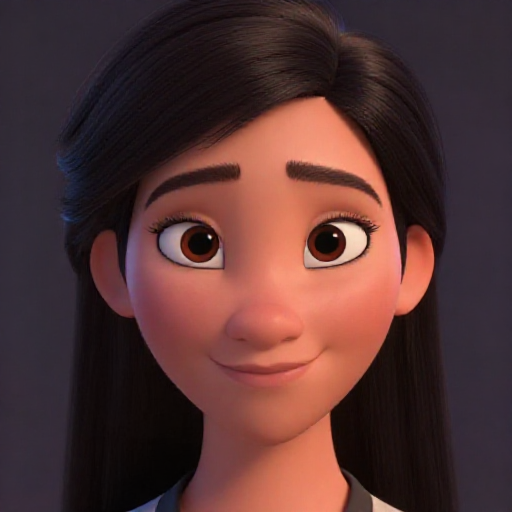
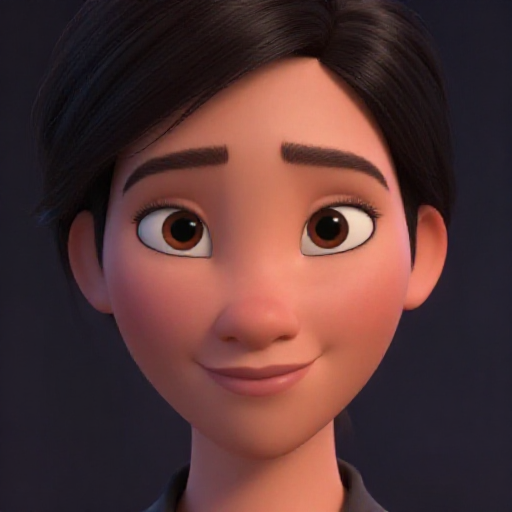
Fix VQA batching (sequential now), add hair_length, strengthen prompt for feature adherence, add prompt logging

diff --git a/services/profile_worker/main.py b/services/profile_worker/main.py
@@ -58,6 +58,7 @@ def _extract_facial_features_with_vqa(img_bgr: np.ndarray) -> FaceObserved:
     questions = {
         "hair_color": "What is the hair color? Answer with one word: black, brown, blonde, red, gray, or white.",
         "hair_type": "What is the hair type? Answer with one word: straight, wavy, curly, or coily.",
+        "hair_length": "What is the hair length? Answer with one word: bald, short, medium, or long.",
         "eye_color": "What is the eye color? Answer with one word: brown, blue, green, hazel, or gray.",
         "nose_bridge": "Describe the nose bridge in one word: narrow, medium, or wide.",
         "lip_fullness": "Describe the lip fullness in one word: thin, medium, or full.",
@@ -69,59 +70,48 @@ def _extract_facial_features_with_vqa(img_bgr: np.ndarray) -> FaceObserved:
         "facial_hair_length": "If facial hair present, what length? Answer with one word: none, short, medium, or long."
     }
     
-    # Batch process all questions for GPU efficiency
+    # Process questions one at a time to avoid batch errors
     features = {}
-    all_messages = []
     question_keys = list(questions.keys())
     
     for key in question_keys:
-        all_messages.append([
-            {
-                "role": "user",
-                "content": [
-                    {"type": "image", "image": pil_img},
-                    {"type": "text", "text": questions[key]}
-                ]
-            }
-        ])
-    
-    try:
-        # Process all questions in batch
-        texts = [_vqa_processor.apply_chat_template(msg, tokenize=False, add_generation_prompt=True) for msg in all_messages]
-        image_inputs, video_inputs = process_vision_info(all_messages[0])  # Same image for all
-        
-        # Batch all inputs
-        inputs = _vqa_processor(
-            text=texts,
-            images=[image_inputs[0]] * len(texts),  # Same image repeated
-            videos=None,
-            padding=True,
-            return_tensors="pt"
-        ).to(DEVICE)
-        
-        with torch.no_grad():
-            output_ids = _vqa_model.generate(**inputs, max_new_tokens=10)
-        
-        # Decode all answers
-        for idx, key in enumerate(question_keys):
-            try:
-                generated_ids = output_ids[idx][len(inputs.input_ids[idx]):]
-                answer = _vqa_processor.decode(generated_ids, skip_special_tokens=True, clean_up_tokenization_spaces=False)
-                
-                # Extract first word from answer
-                words = answer.lower().strip().split()
-                if words:
-                    features[key] = words[0].rstrip('.,;!?')
-                else:
-                    features[key] = None
-            except Exception as e:
-                logger.warning("vqa_decode_failed", extra={"extra_fields": {"feature": key, "error": str(e)}})
+        try:
+            messages = [
+                {
+                    "role": "user",
+                    "content": [
+                        {"type": "image", "image": pil_img},
+                        {"type": "text", "text": questions[key]}
+                    ]
+                }
+            ]
+            
+            text = _vqa_processor.apply_chat_template(messages, tokenize=False, add_generation_prompt=True)
+            image_inputs, video_inputs = process_vision_info(messages)
+            inputs = _vqa_processor(
+                text=[text],
+                images=image_inputs,
+                videos=video_inputs,
+                padding=True,
+                return_tensors="pt"
+            ).to(DEVICE)
+            
+            with torch.no_grad():
+                output_ids = _vqa_model.generate(**inputs, max_new_tokens=10)
+            
+            # Decode answer
+            generated_ids = output_ids[0][len(inputs.input_ids[0]):]
+            answer = _vqa_processor.decode(generated_ids, skip_special_tokens=True, clean_up_tokenization_spaces=False)
+            
+            # Extract first word from answer
+            words = answer.lower().strip().split()
+            if words:
+                features[key] = words[0].rstrip('.,;!?')
+            else:
                 features[key] = None
                 
-    except Exception as e:
-        logger.error("vqa_batch_failed", extra={"extra_fields": {"error": str(e)}})
-        # Fallback to None for all
-        for key in question_keys:
+        except Exception as e:
+            logger.warning("vqa_feature_failed", extra={"extra_fields": {"feature": key, "error": str(e)}})
             features[key] = None
     
     t_elapsed = time.time() - t_start
@@ -165,9 +155,37 @@ async def startup() -> None:
 def _profile_prompt(features: dict) -> str:
     """Build preset prompt from features dict (not model instance)."""
     observed = features.get("observed", {})
-    bits = [f"{k.replace('_',' ')} {v}" for k, v in observed.items() if v]
-    desc = ", ".join(bits) if bits else "pleasant face"
-    return f"High quality profile portrait, {desc}, Disney 3D animated style, front-facing view, centered face, direct gaze, cinematic lighting, expressive eyes, professional studio quality"
+    
+    # Build detailed feature description
+    parts = []
+    if observed.get("hair_color"):
+        parts.append(f"{observed['hair_color']} hair")
+    if observed.get("hair_type"):
+        parts.append(f"{observed['hair_type']} hair texture")
+    if observed.get("hair_length"):
+        parts.append(f"{observed['hair_length']} hair length")
+    if observed.get("eye_color"):
+        parts.append(f"{observed['eye_color']} eyes")
+    if observed.get("skin_tone"):
+        parts.append(f"{observed['skin_tone']} skin tone")
+    if observed.get("nose_bridge"):
+        parts.append(f"{observed['nose_bridge']} nose bridge")
+    if observed.get("lip_fullness"):
+        parts.append(f"{observed['lip_fullness']} lips")
+    if observed.get("face_shape"):
+        parts.append(f"{observed['face_shape']} face shape")
+    if observed.get("facial_hair_type") and observed.get("facial_hair_type") != "none":
+        parts.append(f"{observed['facial_hair_type']}")
+    if observed.get("age_appearance"):
+        parts.append(f"{observed['age_appearance']} appearance")
+    
+    desc = ", ".join(parts) if parts else "pleasant face"
+    
+    # Emphasize adherence to features
+    return (f"Highly detailed 3D Disney Pixar style portrait: {desc}. "
+            f"IMPORTANT: Must accurately depict ALL specified features including hair texture and color. "
+            f"Front-facing view, centered face, direct gaze at camera, cinematic lighting, "
+            f"expressive eyes, professional studio quality, photorealistic rendering")
 
 
 def _extract_features_from_image(content: bytes) -> FaceProfileFeaturesV1:
@@ -251,6 +269,8 @@ async def generate_from_features(avatar_features: dict = Body(...)) -> JSONRespo
         raise HTTPException(status_code=503, detail="Model not loaded")
 
     prompt = _profile_prompt(avatar_features)
+    logger.info("profile_prompt_generated", extra={"extra_fields": {"prompt": prompt}})
+    
     out = _pipe(prompt=prompt, height=512, width=512, num_inference_steps=4, guidance_scale=0.0)
     image = out.images[0]
     buf = io.BytesIO()

diff --git a/shared/models.py b/shared/models.py
@@ -8,6 +8,7 @@ class FaceObserved(BaseModel):
     face_shape: Optional[str] = None
     hair_color: Optional[str] = None
     hair_type: Optional[str] = None
+    hair_length: Optional[str] = None
     eye_color: Optional[str] = None
     nose_bridge: Optional[str] = None
     lip_fullness: Optional[str] = None
